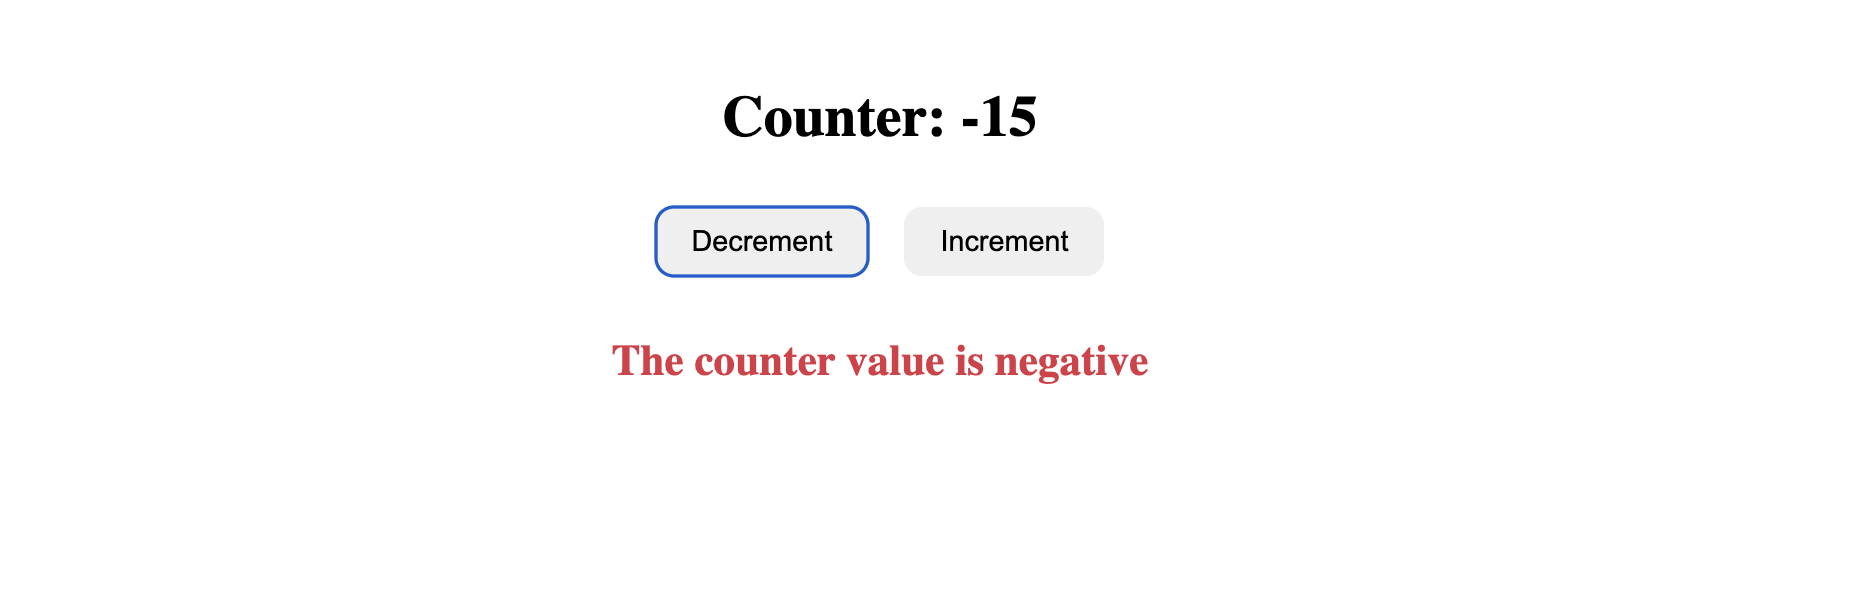
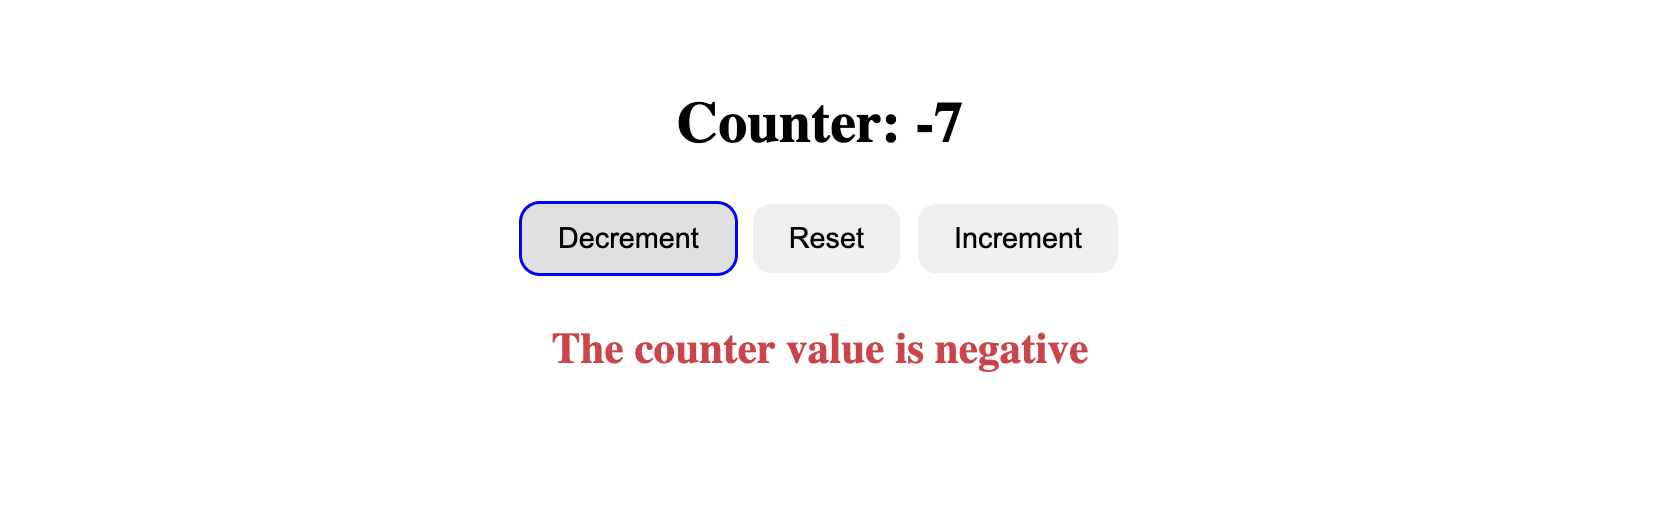
project 2-counter readme file updated

Changed region(s): [[0.3125, 0.3411, 0.6562, 0.7132], [0.375, 0.155, 0.5938, 0.2791]]

diff --git a/2-counter/src/app/counter/counter.component.ts b/2-counter/src/app/counter/counter.component.ts
@@ -22,13 +22,13 @@ export class CounterComponent {
     this.counter = 0;
   }
 
-  getCounterStatus() {
+  getCounterStatus(): string {
     if (this.counter > 0) {
       return 'positive';
-    } else if (this.counter === 0) {
-      return 'neutral';
-    } else {
+    } else if (this.counter < 0) {
       return 'negative';
+    } else {
+      return 'neutral';
     }
   }
 }

diff --git a/2-counter/src/app/counter/counter.component.scss b/2-counter/src/app/counter/counter.component.scss
@@ -6,13 +6,23 @@
 h1 {
   font-size: 2rem;
 }
+
 button {
   padding: 10px 20px;
   font-size: 1rem;
-  margin: 10px;
+  margin: 5px;
   cursor: pointer;
   border-radius: 10px;
   border: none;
+}
+
+button:focus {
+  outline: 2px solid blue;
+  background-color: #e0e0e0;
+}
+
+button:active {
+  transform: translateY(1px);
 }
 
 button:hover {

diff --git a/2-counter/README.md b/2-counter/README.md
@@ -1,16 +1,17 @@
 # Counter App
 
 - This is a simple counter application.
-- There are two buttons named Increment & Decrement.
-- By clicking on increment button the counter value increased by 1 and by clicking decrement button the counter value is decreased by 1.
+- There are three buttons named Increment, Decrement & Reset.
+- By clicking on _increment_ button the counter value increased by 1, by clicking _decrement_ button the counter value is decreased by 1 and by clicking _reset_ button the counter value is set to 0.
 - There is a status text, below the buttons displaying whether the number is positive, negative, or neutral.
 - This project was generated using [Angular CLI](https://github.com/angular/angular-cli) version 19.0.5.
 
 ## Project Images
 
-![Project Image 1](./assets/project-image-neutral.png)
+![Project Image 1](./assets/project-image-initial.png)
 ![Project Image 2](./assets/project-image-positive.png)
-![Project Image 1](./assets/project-image-negative.png)
+![Project Image 3](./assets/project-image-negative.png)
+![Project Image 4](./assets/project-image-reset.png)
 
 ## Project Learnings & Challenges
 
@@ -21,6 +22,34 @@ In this project I have learned & applied,
 - _ngStyle_ and
 - _ngClass_
 of Angular.
+
+## How it works - Data Flow 
+
+- _Component Property (name, age, description are the component’s state (i.e., data)),_
+- _These values are initialized and can be updated from the template inputs._
+- _[(ngModel)], from FormsModule, is a part of Angular's template-driven forms system._
+
+↓
+
+- _{{ name }}, {{ age }}, and {{ description }} display the values of the respective component properties._
+- _Template Input Fields via [(ngModel)]_
+- _[(ngModel)]="name" binds the input field to the name property._
+- _Two-Way Data Flow with [(ngModel)]_
+- _This system enables data to flow:_
+1. From the component class → to the template (HTML) — so the UI displays the current values.
+2. From the template → back to the component class — so any user input updates the internal data.
+
+↓
+
+- _The UI input is pre-filled with the current value ('', i.e., empty string)._
+- _The value of name in the class is bound to the input field._
+- _User Types → Updates Component Property_
+- _Angular's change detection runs after input: It re-renders the template wherever {{ name }} is used._
+- _Angular automatically updates the name property in AppComponent with the new input value._
+
+↓
+
+- _Template Interpolation {{ name }}, {{ age }}, {{ description }} updates and displayed_
 
 ## Getting Started
 
@@ -65,8 +94,6 @@ To run the development server:
 
 ```bash
 ng serve -o
-
-
 ```
 
 ## License

diff --git a/README.md b/README.md
@@ -55,7 +55,7 @@ Make sure you have the following installed on your system:
     cd [project-name]
     
     example: cd 1-profile-card
-                or 
+             # or 
              cd 2-counter
     ```
 
